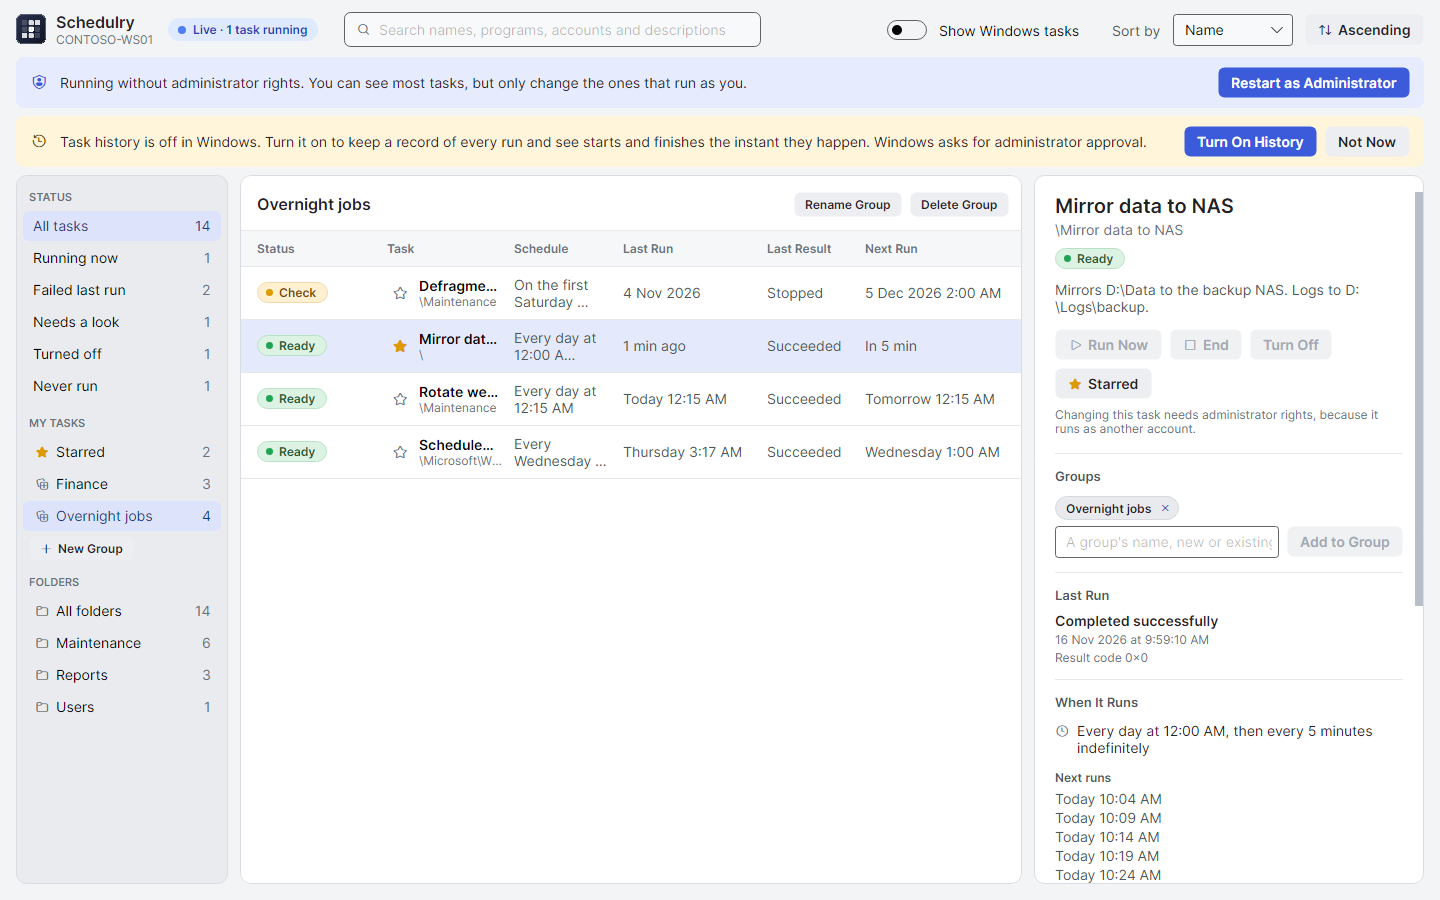
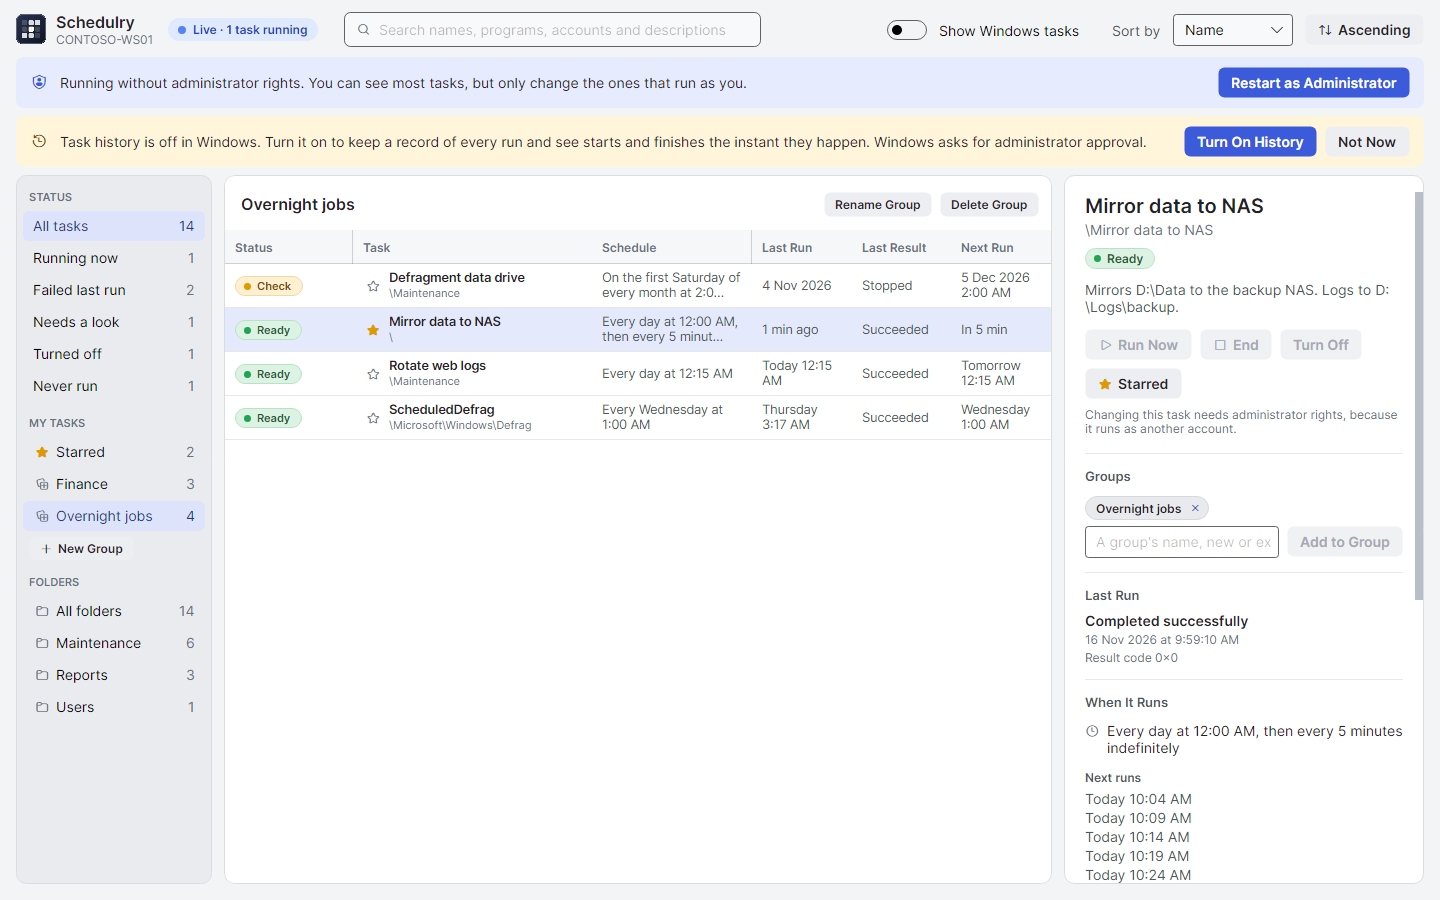
Resizable task table that fits task names
The table is now a DataGrid: drag a column's edge to resize it or its
header to move it, and drag the divider beside the preview to give the
table more room. Widths, order and the preview's width are remembered.
Rows are a size smaller, names wrap to a second line instead of being
cut off, and the time columns share the width so the table fits at
1280 px.

diff --git a/src/Schedulry.App/Views/MainView.axaml.cs b/src/Schedulry.App/Views/MainView.axaml.cs
@@ -1,8 +1,90 @@
+using System.Text.Json;
+using Avalonia;
 using Avalonia.Controls;
 
 namespace Schedulry.App.Views;
 
 public partial class MainView : UserControl
 {
+    /// <summary>Where the table's column widths and order are kept; null (screenshots, tests) keeps nothing.</summary>
+    public static string? ColumnLayoutFile { get; set; }
+
+    const string PreviewKey = "preview";
+    const int PreviewColumn = 4;
+
+    sealed record ColumnState(double Width, DataGridLengthUnitType Unit, int Index);
+
+    Window? _window;
+
     public MainView() => InitializeComponent();
+
+    protected override void OnAttachedToVisualTree(VisualTreeAttachmentEventArgs e)
+    {
+        base.OnAttachedToVisualTree(e);
+        RestoreColumns();
+        _window = TopLevel.GetTopLevel(this) as Window;
+        if (_window is not null)
+            _window.Closing += OnWindowClosing;
+    }
+
+    protected override void OnDetachedFromVisualTree(VisualTreeAttachmentEventArgs e)
+    {
+        if (_window is not null)
+            _window.Closing -= OnWindowClosing;
+        base.OnDetachedFromVisualTree(e);
+    }
+
+    void OnWindowClosing(object? sender, WindowClosingEventArgs e) => SaveColumns();
+
+    void RestoreColumns()
+    {
+        if (ColumnLayoutFile is not { } file || !File.Exists(file))
+            return;
+        try
+        {
+            var saved = JsonSerializer.Deserialize<Dictionary<string, ColumnState>>(File.ReadAllText(file));
+            if (saved is null)
+                return;
+            if (saved.TryGetValue(PreviewKey, out var preview) && preview.Width >= 300)
+                BodyGrid.ColumnDefinitions[PreviewColumn].Width = new GridLength(preview.Width);
+            foreach (var column in TaskGrid.Columns)
+            {
+                if (column.Tag is string key && saved.TryGetValue(key, out var state) && state.Width > 0)
+                    column.Width = new DataGridLength(state.Width, state.Unit);
+            }
+            // Order second, lowest index first, so each move lands where it was.
+            foreach (var (column, state) in TaskGrid.Columns
+                         .Select(c => (Column: c, State: c.Tag is string k && saved.TryGetValue(k, out var s) ? s : null))
+                         .Where(p => p.State is not null)
+                         .OrderBy(p => p.State!.Index)
+                         .ToList())
+            {
+                if (state!.Index >= 0 && state.Index < TaskGrid.Columns.Count)
+                    column.DisplayIndex = state.Index;
+            }
+        }
+        catch (Exception e) when (e is JsonException or IOException or ArgumentException)
+        {
+            // A damaged layout file just means the default widths.
+        }
+    }
+
+    void SaveColumns()
+    {
+        if (ColumnLayoutFile is not { } file)
+            return;
+        try
+        {
+            var state = TaskGrid.Columns.Where(c => c.Tag is string).ToDictionary(
+                c => (string)c.Tag!,
+                c => new ColumnState(c.Width.IsAuto ? c.ActualWidth : c.Width.Value, c.Width.IsAuto ? DataGridLengthUnitType.Pixel : c.Width.UnitType, c.DisplayIndex));
+            state[PreviewKey] = new ColumnState(BodyGrid.ColumnDefinitions[PreviewColumn].ActualWidth, DataGridLengthUnitType.Pixel, -1);
+            Directory.CreateDirectory(Path.GetDirectoryName(file)!);
+            File.WriteAllText(file, JsonSerializer.Serialize(state));
+        }
+        catch (Exception e) when (e is IOException or UnauthorizedAccessException)
+        {
+            // Not worth bothering anyone about at closing time.
+        }
+    }
 }

diff --git a/tools/Schedulry.Snapshots/Program.cs b/tools/Schedulry.Snapshots/Program.cs
@@ -39,6 +39,9 @@ foreach (var theme in new[] { ThemeVariant.Light, ThemeVariant.Dark })
         vm.SelectedRow = vm.Rows.FirstOrDefault();
     });
 
+    // A smaller laptop screen: names must still be readable.
+    Render($"main-1280-{suffix}", new DemoSchedulerHost(() => moment), vm =>
+        vm.SelectedRow = vm.Rows.First(r => r.Name == "Sync payroll exports"), width: 1280, height: 800);
     Render($"group-{suffix}", new DemoSchedulerHost(() => moment), vm =>
     {
         vm.SelectedCollection = vm.Collections.First(c => c.Title == "Overnight jobs");
@@ -56,12 +59,12 @@ foreach (var theme in new[] { ThemeVariant.Light, ThemeVariant.Dark })
 Console.WriteLine($"Wrote snapshots to {output}");
 return 0;
 
-void Render(string name, DemoSchedulerHost host, Action<MainViewModel> arrange)
+void Render(string name, DemoSchedulerHost host, Action<MainViewModel> arrange, int width = 1440, int height = 900)
 {
     using var vm = new MainViewModel(host, clock: () => moment, organizer: new Schedulry.Core.MemoryOrganizerStore(DemoOrganizer.Sample()));
     vm.Monitor.Step();   // the first full read, raised inline
     arrange(vm);
-    var window = new MainWindow { Width = 1440, Height = 900, DataContext = vm };
+    var window = new MainWindow { Width = width, Height = height, DataContext = vm };
     window.Show();
     Settle();
     using var frame = window.CaptureRenderedFrame() ?? throw new InvalidOperationException($"No frame rendered for {name}");

diff --git a/src/Schedulry.App/App.axaml.cs b/src/Schedulry.App/App.axaml.cs
@@ -26,6 +26,7 @@ public partial class App : Application
                 ? new MemoryOrganizerStore(DemoOrganizer.Sample())
                 : new JsonOrganizerStore(Path.Combine(Program.DataFolder, $"organize-{host.ComputerName.ToLowerInvariant()}.json"));
             var main = new MainViewModel(host, organizer: organizer);
+            Views.MainView.ColumnLayoutFile = Path.Combine(Program.DataFolder, "columns.json");
             var window = new MainWindow { DataContext = main };
 
             Platform.RestartAsAdmin = () =>

diff --git a/README.md b/README.md
@@ -19,6 +19,7 @@ today. Editing, remote computers, notifications and installers are on the way.
 | One folder at a time | Search across every folder by name, program, account or description; filter by Running, Failed, Needs a look, Turned off, Never run |
 | "Run whether user is logged on or not" and "Do not store password" | What that means for this task, in a sentence |
 | Windows' own 200 tasks mixed in with yours | Hidden until you switch them on |
+| Columns you can't make wider | Drag column edges and headers, and the divider beside the preview; your layout is remembered |
 | Folders are the only way to arrange tasks, and moving one changes it | Star tasks and put them in your own groups (a task can be in several); kept by Schedulry, so the tasks themselves never change |
 
 ![Schedulry, dark theme, Windows' own tasks shown](docs/screenshots/windows-tasks-dark.png)
